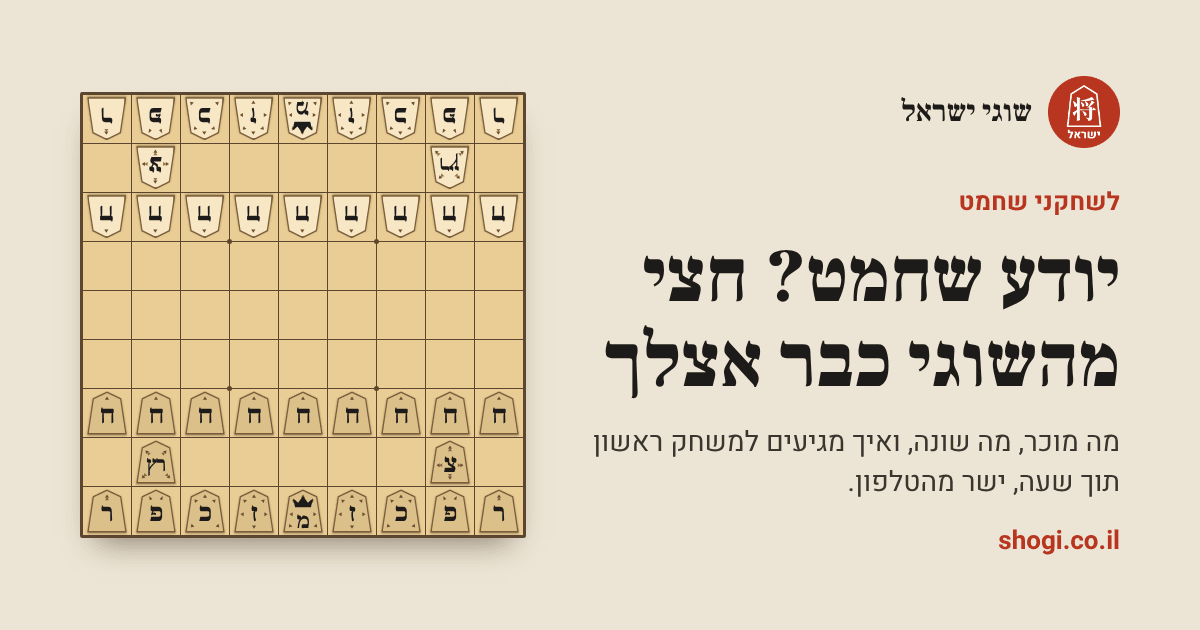
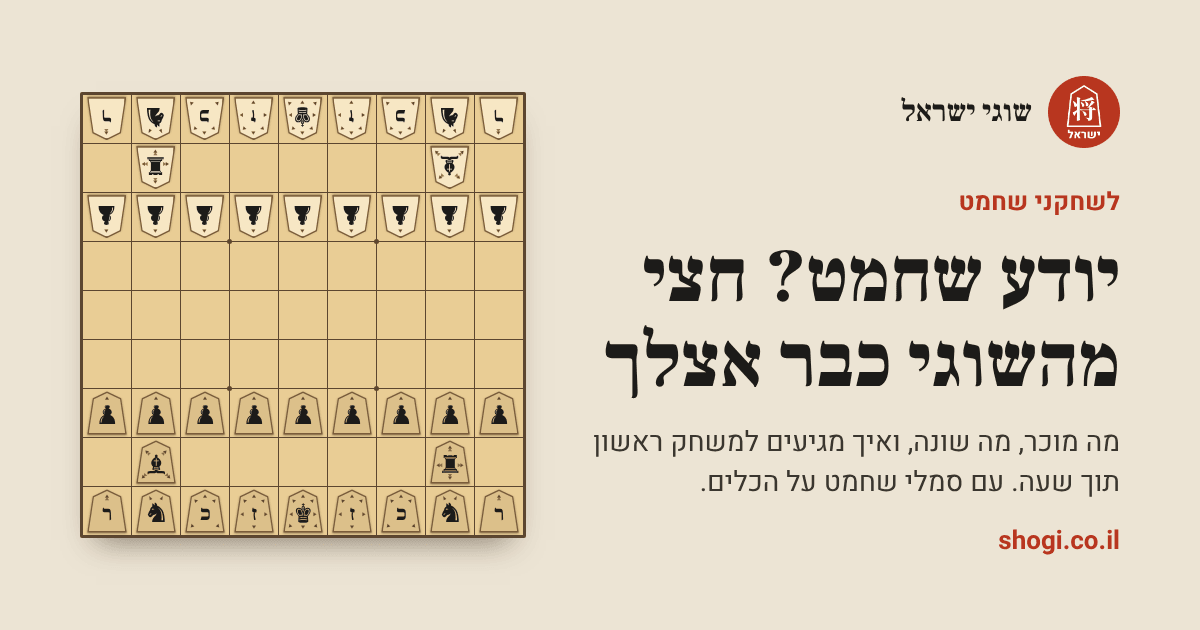
Show chess-symbol pieces on the chess page share card

diff --git a/src/lib/og-cards.ts b/src/lib/og-cards.ts
@@ -20,6 +20,7 @@ export interface OgCard {
   highlight?: string;
   zones?: boolean;
   kanji?: boolean;
+  pieces?: 'chess';
 }
 
 export const ogSlug = (path: string): string => path.replace(/^\/+|\/+$/g, '').replace(/\/+/g, '-') || 'default';
@@ -141,8 +142,8 @@ export function ogCards(): OgCard[] {
       sub: 'לוח 9 על 9, 20 כלים לכל צד, וכלי שלכדת עובר לצד שלך. התשובות הקצרות, בעברית.', sfen: START,
     },
     {
-      path: '/chess/', eyebrow: 'לשחקני שחמט', title: 'יודע שחמט? חצי מהשוגי כבר אצלך',
-      sub: 'מה מוכר, מה שונה, ואיך מגיעים למשחק ראשון תוך שעה, ישר מהטלפון.', sfen: START,
+      path: '/chess/', pieces: 'chess', eyebrow: 'לשחקני שחמט', title: 'יודע שחמט? חצי מהשוגי כבר אצלך',
+      sub: 'מה מוכר, מה שונה, ואיך מגיעים למשחק ראשון תוך שעה. עם סמלי שחמט על הכלים.', sfen: START,
     },
     {
       path: '/history/', eyebrow: 'מאות שנים על לוח אחד', title: 'ההיסטוריה של השוגי',
